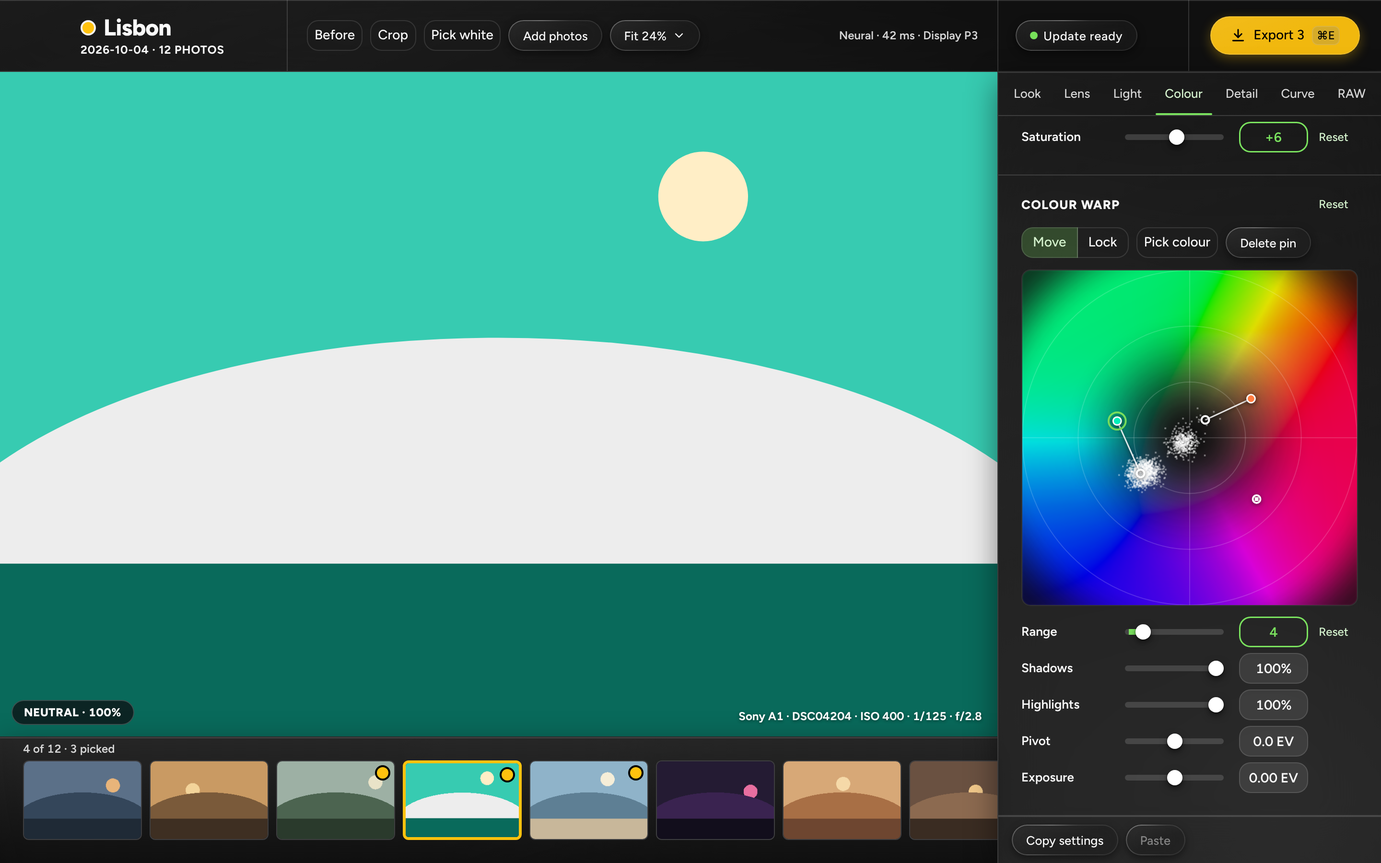
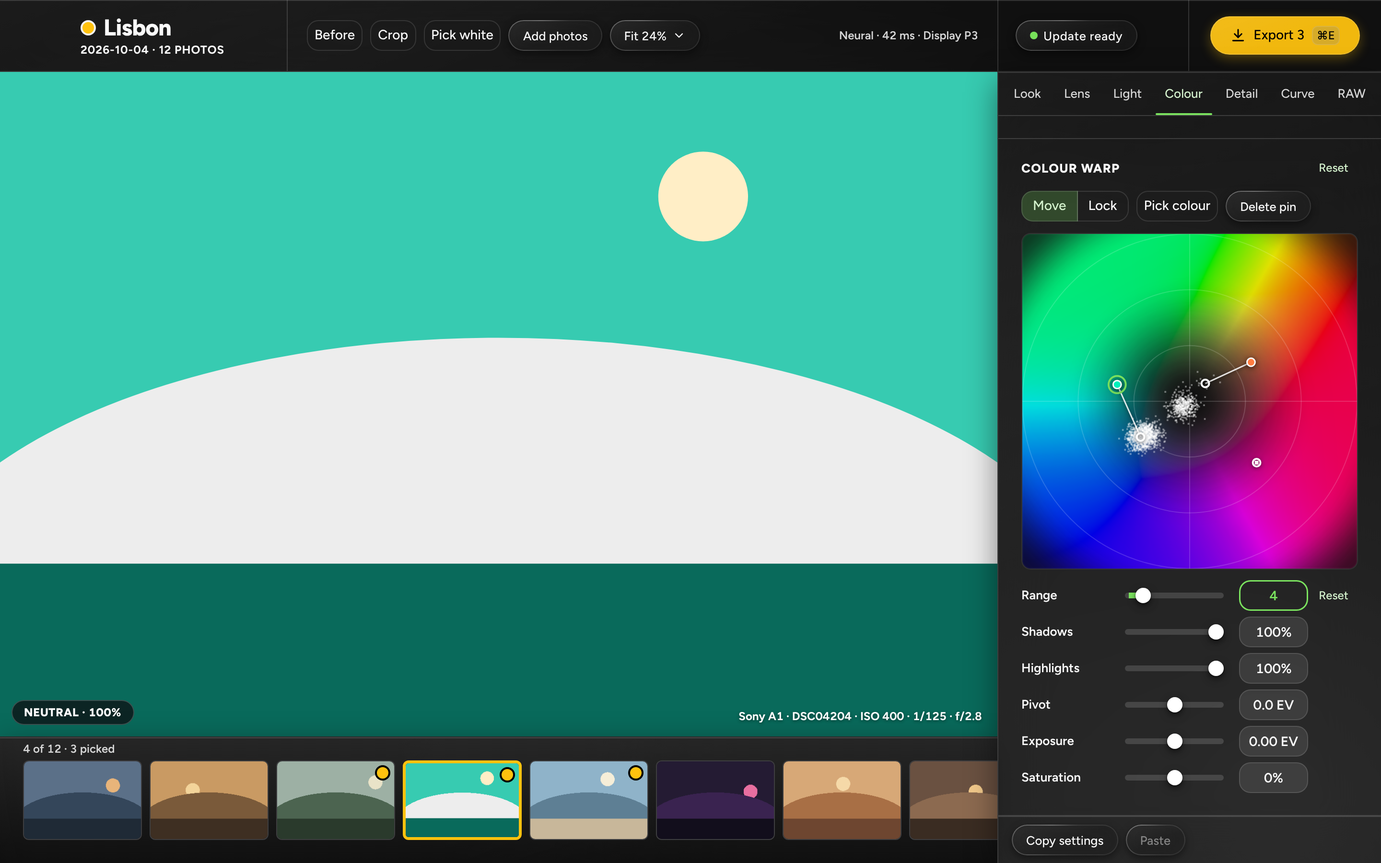
WIP: colour warp saturation in progress (snapshot) [skip ci]
Claude-Session: https://claude.ai/code/session_015yVsquBXWFc8zJt2CLktQS

diff --git a/crates/ym-gpu/tests/gpu_color.rs b/crates/ym-gpu/tests/gpu_color.rs
@@ -125,9 +125,10 @@ fn every_stage_matches_the_cpu_trace() {
             // would be compared where it is the identity. The four `warp/` cases (the flow's 12
             // steps), measured on Mesa lavapipe in all three storage modes (with the contrast and
             // saturation of 2026-10-19, the contrast's colour step and the saturation boost 1.5
-            // included): C9b 4.2e-7, C10 4.5e-7, C11 4.9e-7 (gate 2e-4), C13 at most 4.2e-5 (gate one
-            // 10-bit code). The `contrast/` and `saturation/` cases (alone and on the full chain, -100
-            // to 100) are in the per-stage line printed below: C9 8.4e-7 on every chain.
+            // included, and the pins' saturation of 2026-11-01): C9b 5.1e-7, C10 5.2e-7, C11 5.3e-7
+            // (gate 2e-4), C13 at most 1.1e-6 (gate one 10-bit code). The `contrast/` and
+            // `saturation/` cases (alone and on the full chain, -100 to 100) are in the per-stage
+            // line printed below: C9 8.8e-7 on every chain.
             let warped = traces
                 .iter()
                 .filter(|t| {
@@ -233,9 +234,11 @@ fn every_stage_matches_the_cpu_trace() {
 /// the warp existed), for all four outputs, checked at C9, C9b, C10, C11 and C13.
 ///
 /// Measured on Mesa lavapipe, the same in all three storage modes (with the contrast and saturation of
-/// 2026-10-19, the contrast's colour step and the saturation boost 1.5 included): C9 4.3e-7, C9b
-/// 6.6e-7, C10 6.4e-7, C11 6.2e-7 against the 2e-4 gate, C13 2.0e-5 against one 10-bit code
-/// (9.8e-4); 57 of the 60 sets have a warp that acts, and 29 % of all pixels move by more than 1e-3.
+/// 2026-10-19, the contrast's colour step and the saturation boost 1.5 included, and about half the
+/// moving pins with a saturation of their own, 2026-11-01): C9 4.5e-7, C9b 9.1e-7, C10 8.2e-7, C11
+/// 8.3e-7 against the 2e-4 gate, C13 2.4e-5 against one 10-bit code (9.8e-4); 57 of the 60 sets have a
+/// warp that acts, and 31 % of all pixels move by more than 1e-3. With the kernel's saturation step
+/// off the same test fails (C9b 6.6e-2).
 #[test]
 fn random_parameter_sets_match_the_cpu_trace() {
     use std::sync::Arc;
@@ -507,8 +510,9 @@ fn a_warp_that_moves_nothing_leaves_every_output_bit_identical() {
 /// its own.
 ///
 /// Measured on Mesa lavapipe, the same in all three storage modes (with the contrast and saturation of
-/// 2026-10-19, the contrast's colour step and the saturation boost 1.5 included): C9b 9.1e-7, C10
-/// 8.7e-7, C11 8.2e-7 (gate 2e-4), C13 4.4e-6 (gate one 10-bit code, 9.8e-4).
+/// 2026-10-19, the contrast's colour step and the saturation boost 1.5 included, and saturations of
+/// -80 %, 0 and +80 % on the moving pins in turn): C9b 8.6e-7, C10 9.7e-7, C11 1.1e-6 (gate 2e-4), C13
+/// 4.2e-6 (gate one 10-bit code, 9.8e-4); the least a pin moved its own pixel: 1.2e-2.
 #[test]
 fn the_most_pins_the_uniform_holds_match_the_cpu() {
     use ym_color::warp::{WARP_MAX_PINS, WarpParams, WarpPin, chroma_of};
@@ -625,7 +629,7 @@ fn the_most_pins_the_uniform_holds_match_the_cpu() {
                     );
                 } else {
                     // Overlapping pins share: the least moved is a short move whose neighbours
-                    // dilute it (6.1e-3 on Mesa lavapipe); a pin read from the wrong row would
+                    // dilute it (1.2e-2 with the saturations on Mesa lavapipe); a pin read from the wrong row would
                     // leave its pixel where it was.
                     assert!(
                         shift > 1e-3,

diff --git a/crates/ym-core/tests/settings.rs b/crates/ym-core/tests/settings.rs
@@ -1980,7 +1980,14 @@ fn the_warp_keeps_16_pins_and_clamps_each_like_the_stage_does() {
     assert!(a.source[0].hypot(a.source[1]) <= 0.5);
     assert!((a.target[1] - 0.5).abs() < 1e-12 && a.target[0] == 0.0);
     assert_eq!(
-        (a.range, a.shadows, a.highlights, a.pivot_ev, a.exposure_ev, a.saturation),
+        (
+            a.range,
+            a.shadows,
+            a.highlights,
+            a.pivot_ev,
+            a.exposure_ev,
+            a.saturation
+        ),
         (0.25, 0.0, 1.0, -6.0, 2.0, -1.0)
     );
     assert_eq!(
@@ -2002,8 +2009,22 @@ fn the_warp_keeps_16_pins_and_clamps_each_like_the_stage_does() {
         let c = WarpPin::from(*p).clamped();
         assert_eq!(c.locked, p.locked);
         assert_eq!(
-            (c.range, c.shadows, c.highlights, c.pivot_ev, c.exposure_ev, c.saturation),
-            (p.range, p.shadows, p.highlights, p.pivot_ev, p.exposure_ev, p.saturation)
+            (
+                c.range,
+                c.shadows,
+                c.highlights,
+                c.pivot_ev,
+                c.exposure_ev,
+                c.saturation
+            ),
+            (
+                p.range,
+                p.shadows,
+                p.highlights,
+                p.pivot_ev,
+                p.exposure_ev,
+                p.saturation
+            )
         );
         for (x, y) in c
             .source

diff --git a/crates/ym-color/src/warp.rs b/crates/ym-color/src/warp.rs
@@ -455,7 +455,7 @@ impl Warp {
         let e = gamma / reach.max(1.0) * exposure;
         // |K| <= 1 already (the weights are in [0, 1], gamma too, and every pin's saturation is in
         // [-1, 1]); the clamp keeps 1 + K >= 0 whatever else.
-        let k = (gamma / reach.max(1.0) * saturation).max(-1.0);
+        let sat_k = (gamma / reach.max(1.0) * saturation).max(-1.0);
         // The flow: each pin's centre slides from its source by the pixel's share of its move,
         // `s + tau gamma w delta`, and the pixel follows in N steps (so a pixel on a source lands on
         // `s + gamma w delta`, as in one step). The move is gathered in `d`, so one step is the
@@ -484,8 +484,8 @@ impl Warp {
             d[1] += s * v1;
         }
         // Saturation scales the chroma the pixel ends on, `(1 + K) (c + D)`. K = 0 leaves D as it is.
-        if k != 0.0 {
-            d = [d[0] + k * (c[0] + d[0]), d[1] + k * (c[1] + d[1])];
+        if sat_k != 0.0 {
+            d = [d[0] + sat_k * (c[0] + d[0]), d[1] + sat_k * (c[1] + d[1])];
         }
         (d, e)
     }

diff --git a/crates/ym-cli/tests/parity.rs b/crates/ym-cli/tests/parity.rs
@@ -810,6 +810,13 @@ fn a_colour_warp_is_the_same_picture_through_the_app_and_the_binary() {
             &sb.root().join(format!("cli-{name}")),
         );
         assert_same_files(&from_app, &from_cli, &format!("colour warp, {name}"));
+        // The pins, saturation included, are in the file's `ym:Settings`, as every setting is.
+        if name == "jpeg" {
+            let xmp = String::from_utf8_lossy(&bytes(&from_app[0])).replace("&quot;", "\"");
+            for saturation in ["\"saturation\":-0.6", "\"saturation\":0.5"] {
+                assert!(xmp.contains(saturation), "ym:Settings holds {saturation}");
+            }
+        }
     }
 }
 

diff --git a/docs/02-colour-pipeline.md b/docs/02-colour-pipeline.md
@@ -505,7 +505,7 @@ A chroma warp in the manner of DaVinci Resolve's Color Warper, on the Colour tab
 
 **The chroma plane.** For a LogC4 pixel `v`, its chroma is `c = (e1·v, e2·v)` with the colour-balance axes of C9 (`e1 = (1, −½, −½)/√1.5`, red against cyan; `e2 = (0, 1, −1)/√2`, green against blue), and its tone is `L = encode(Y(decode(v)))`, the LogC4 code of its linear luminance (as C11's luma curve). Moving `c` by `d` adds `d1·e1 + d2·e2` to `v`, which leaves the mean of the three channels, and so the pixel's brightness along the neutral axis, unchanged. Pure red sits at 0°, green near 120° and blue near 240° (counter-clockwise from `+e1`). The UI draws the plane out to `|c| = 0.30` (`WARP_PLANE_EXTENT`), which holds the colours of ordinary photos: a red of linear (0.18, 0.009, 0.009) in AWG4 reads `|c| = 0.13`.
 
-**A pin** has a source `s` and a target `t` (points of the plane), a range `ρ`, two tonal weights (Shadows `w_lo`, Highlights `w_hi`, 0…1), a pivot `p` in stops from grey, an exposure `x` in stops, and a lock flag. A locked pin's target is its source and it has no exposure or tonal weights.
+**A pin** has a source `s` and a target `t` (points of the plane), a range `ρ`, two tonal weights (Shadows `w_lo`, Highlights `w_hi`, 0…1), a pivot `p` in stops from grey, an exposure `x` in stops, a saturation `σ` (−1…+1; −1 turns the colours the pin reaches grey, +1 doubles their distance from neutral), and a lock flag. A locked pin's target is its source and it has no exposure, saturation or tonal weights.
 
 For a pixel of chroma `c₀` and tone `L` the warp is a flow, not one jump: in `N` small steps every moving pin's Gaussian slides from its source toward its target and the pixel follows it, so a pin reaches as far as its range however long its move.
 
@@ -523,7 +523,10 @@ c    = c₀, then for k = 0 … N − 1, τ = k / N:
   c    = c + (γ / N) · Σ (w_i φ_i δ_i) / max(1, Σ φ_i)   overlapping pins share, they do not add up
 D    = c − c₀                                      chroma displacement
 E    = γ · Σ (w_i G(|c₀ − s_i|², ρ_i) x_i) / max(1, Σ G(|c₀ − s_i|², ρ_i))   exposure in stops, in one step
-v'   = v + D1·e1 + D2·e2 + E · S                   S = one stop in LogC4 (0.06480)
+K    = γ · Σ (w_i G(|c₀ − s_i|², ρ_i) σ_i) / max(1, Σ G(|c₀ − s_i|², ρ_i))   saturation, in one step, the same weights
+c_f  = (1 + max(K, −1)) · (c₀ + D)                 the chroma the pixel ends on; 1 + K ≥ 0
+D'   = c_f − c₀ = D + K · (c₀ + D)                 chroma displacement with the saturation (D' = D where K = 0)
+v'   = v + D'1·e1 + D'2·e2 + E · S                 S = one stop in LogC4 (0.06480)
 ```
 
 - **Range is the range.** A pin's range is used as set: a colour three ranges beside or behind the source moves by at most `exp(−4.5)` of the move (exactly that for a move of one step).
@@ -531,15 +534,16 @@ v'   = v + D1·e1 + D2·e2 + E · S                   S = one stop in LogC4 (0.0
 - **No folding for one pin.** At one tone, away from neutral and locks (`γ = 1`), every pixel follows the same flow, that of one pin moving `w·δ`. Its field `w·δ·φ(c)` has the Lipschitz constant `w|δ| / (ρ√e)` (a Gaussian is steepest one range from its centre), an Euler step `c ↦ c + V(c)/N` is one to one with a positive Jacobian determinant when `Lip(V)/N < 1`, and a chain of one-to-one steps is one to one. The rule for `N` keeps `Lip(V)/N ≤ 0.8` for each pin. The cap of 64 never breaks that for one pin: sources and targets lie within 0.5 of neutral, so `|δ| ≤ 1`, and `ρ ≥ 0.01` give at most `1/(0.01√e) = 60.7`. It can bind for many long, narrow moves at once (their bounds add up), and then the plane can fold; so can locks and the neutral guard (`γ` changes across the plane) in odd arrangements. The plane shows where every pin's colour lands.
 - **What a long, narrow move does to the colours on its way.** A one-to-one map that takes `s` to `t` must move what lies between them: the colours ahead of the source on the line of the move, within about a range of it, are pushed ahead of the moving centre and arrive packed just past the target, in their order; the colours just behind the source, in a sliver about `2ρ²/|δ|` long, are stretched along the path. Colours more than two ranges from the line barely move. The stretch is steep (up to about `|δ|² / (2ρ²)`, 5,000 for a move of 1 at range 0.01), so in that sliver the flow magnifies rounding (see the f32 numbers below).
 - **Steps.** Typical moves take few steps: a move of 0.1 at range 0.04 takes 2 (at the default range 0.02, 4), four such pins 8, a move of 0.2 at `ρ = 0.01` (Range 1) takes 16, and the longest move (1) at `ρ = 0.01` takes the cap (64). A move of up to 1.32 ranges takes one step, which is the one-step formula `D = γ·Σ(w φ δ)/n` with `φ` at the sources. The cost is `N` Gaussians a moving pin a pixel (an `exp` and about twenty other operations, the tonal weight recomputed each step) on top of the one-step exposure: 2 for one default pin and a short drag, 64 × 16 = 1024 at the extreme.
-- **Exactness.** No pins, or only locked pins, skip the stage (renders are byte-identical to a pipeline without it). A locked pin's colour does not move at all (`λ = 0` there), at every tone.
-- **Ranges.** At most 16 pins (`WARP_MAX_PINS`). Sources and targets are scaled back to `|c| ≤ 0.5`; `ρ` clamps to 0.01…0.25 (default 0.02, shown as 2 on the Range slider); the tonal weights to 0…1 (default 1); the pivot to −6…+6 stops (default 0); the exposure to −2…+2 stops (default 0). Defaults leave `w_i = 1`. The constants are `WARP_STEP_SAFETY` (1.25), `WARP_MAX_STEPS` (64) and `WARP_EXP_LIMIT` (80) in `ym_color::warp`, mirrored in `src/components/warpMath.ts` (a test reads the Rust file); the exponent limit applies on the CPU as in the kernel.
+- **Saturation** (the owner's request of 2026-11-01) is one step, like the exposure: the same weights `w_i G` at the pixel's original chroma `c₀`, with `σ_i` in place of `x_i`, and it scales the chroma the pixel ends on after the move, so the colour a pin moves to is then made more or less saturated. On a pin's source with its tonal weights at 1, Saturation +50 % ends 1.5 times as far from neutral (the same direction), +100 % twice as far, −100 % on neutral. It acts on the chroma plane, so the pixel's brightness along the neutral axis is unchanged; the neutral guard `g` and the locks `λ` act through `γ` as they do for the exposure (neutrals never move, a locked colour does not change); it follows the range and the Shadows and Highlights weights, and overlapping pins share it (`Σ w φ σ / max(1, Σ φ)`), they do not add it up: two pins at +50 % on one colour give +50 %, and a +100 % pin beside a −100 % pin on one colour cancel. `|K| ≤ 1` holds already (`w`, `γ` in [0, 1], `σ` in [−1, 1], and the division is by at least `Σ φ`); `K` is clamped at −1 all the same, so `1 + K ≥ 0` and the chroma is never turned through neutral to the other side. The flow's step count `N` does not change: a pin that only changes saturation has `δ = 0` and adds no step.
+- **Exactness.** No pins, only locked pins, or pins that move nothing and change neither exposure nor saturation skip the stage (renders are byte-identical to a pipeline without it). A pin that only changes saturation counts as active (`WarpPin::acts`, and so `is_identity` and the grade key), where a pin with saturation 0 and its target on its source is still a still pin. A pin with saturation 0 changes nothing: `K = 0` takes the old path (`D' = D`, bit for bit; a test keeps a copy of the displacement as it was before saturation and compares bits). A locked pin's colour does not move at all (`λ = 0` there), at every tone.
+- **Ranges.** At most 16 pins (`WARP_MAX_PINS`). Sources and targets are scaled back to `|c| ≤ 0.5`; `ρ` clamps to 0.01…0.25 (default 0.02, shown as 2 on the Range slider); the tonal weights to 0…1 (default 1); the pivot to −6…+6 stops (default 0); the exposure to −2…+2 stops (default 0); the saturation to −1…+1 (default 0; the UI shows −100…+100 %). Defaults leave `w_i = 1`. The constants are `WARP_STEP_SAFETY` (1.25), `WARP_MAX_STEPS` (64), `WARP_EXP_LIMIT` (80) and `WARP_SATURATION_LIMIT` (1) in `ym_color::warp`, mirrored in `src/components/warpMath.ts` (a test reads the Rust file); the exponent limit applies on the CPU as in the kernel.
 - **Where it runs.** After C9 and before C10, so a look and the curve act on the warped colours. It travels into the DNG with the rest of the LogC4 grade. Before leaves it out (Before is the camera default; its "after the grade" reading point is C9, before the warp).
 
 ### GPU kernel
 
 `ym_gpu::kernels::color` and `color.wgsl`, function `c9b_warp`, called between `c9_grade` and `c10_look` in `run_pixel`. The debug stop is `Stop::C9b` (code 10 of `mode.x`), read against `StageTrace::c9b_logc4`.
 
-- **Where the pins live.** In the one uniform block `ChainU` (`docs/17-gpu.md` K3 allows one), after the cine rendering's rows: `warp_n` (`x` the moving pins, `y` the locks, `z` the flow's steps), `warp_mv` (`array<vec4<f32>, 48>`, three rows a moving pin: `[s.x, s.y, δ.x, δ.y]`, `[1/(2ρ²), w_lo, w_hi, P]`, `[x, 0, 0, 0]`) and `warp_lk` (`array<vec4<f32>, 16>`, one row a lock: `[l.x, l.y, 1/(2ρ²), 0]`). The block is 1664 bytes.
+- **Where the pins live.** In the one uniform block `ChainU` (`docs/17-gpu.md` K3 allows one), after the cine rendering's rows: `warp_n` (`x` the moving pins, `y` the locks, `z` the flow's steps), `warp_mv` (`array<vec4<f32>, 48>`, three rows a moving pin: `[s.x, s.y, δ.x, δ.y]`, `[1/(2ρ²), w_lo, w_hi, P]`, `[x, σ, 0, 0]`) and `warp_lk` (`array<vec4<f32>, 16>`, one row a lock: `[l.x, l.y, 1/(2ρ²), 0]`). The saturation took a spare lane of the third row, so the pin is still three `vec4` rows (16-byte rows, no padding to reason about) and the block is still 1664 bytes. The kernel reads the exposure and the saturation in the loop that gathers `reach` (one pass over the pins, the weight `w·φ` computed once), takes `K = max(γ/max(reach, 1) · Σ w φ σ, −1)` and, when `K ≠ 0`, adds `K · (c + dd)` to the flow's move `dd` before the move is applied (`K = 0` leaves `dd` untouched, so a pin with saturation 0 renders the bits it rendered before).
 - **Preparation.** `ChainTables::prepare` packs what `ym_color::warp::Warp::new` prepares (clamping, the pivot code, the number of steps from the pins in f64; still pins and lock-only sets are left out), so nothing is computed twice and every pixel of a frame takes the same steps. The sizes (`WARP_MAX_PINS`, `WARP_MOVE_ROWS`, `WARP_LOCK_ROWS`, `WARP_MAX_STEPS`) and `WARP_NEUTRAL_GUARD`, `WARP_TONE_HALF_WIDTH`, `WARP_EXP_LIMIT` are generated into the WGSL from Rust (K7). The kernel takes the steps as `clamp(warp_n.z, 1, WARP_MAX_STEPS)`, so a stray uniform can neither divide by zero nor loop long.
 - **Why a uniform and not a storage buffer.** A pin moves on every frame of a drag, so a persistent table would be refilled as often as the uniform is written, and it would cost a binding (7 of 8), a cache key and an upload of its own. The extra 1 KB a dispatch is nothing next to a tile.
 - **Identity.** No moving pin gives `warp_n.x = 0` and the kernel returns `v` before anything else, so a chain without a warp renders the same bits as one without the stage (tested for no pins, locks only, still pins, and a moving pin past the sixteenth, on every output).
@@ -551,17 +555,17 @@ v'   = v + D1·e1 + D2·e2 + E · S                   S = one stop in LogC4 (0.0
 
 | Case | C9b | C10 | C11 | C13 |
 |---|---|---|---|---|
-| Three fixed warp chains (warp alone, after the full grade, before a display-baked look; 5 moving pins with split tonal weights, pivots, exposure, a move of 0.12 at range 0.01, 12 steps, plus a lock and a still pin) | 4.2e-7 | 4.5e-7 | 4.9e-7 | at most 4.2e-5 (gate one 10-bit code) |
-| 60 seeded random parameter sets with 0 to 18 random pins (about a third locked, controls drawn beyond their ranges) | 6.6e-7 | 6.4e-7 | 6.2e-7 | 2.0e-5 |
-| The most pins the uniform holds (16 moving; 1 moving and 15 locks; 8 and 8; 16 moving followed by ignored locks) | 9.1e-7 | 8.7e-7 | 8.2e-7 | 4.4e-6 |
+| Three fixed warp chains (warp alone, after the full grade, before a display-baked look; 5 moving pins with split tonal weights, pivots, exposure and saturation (+50 %, −70 %, +100 %, a saturation-only pin at −100 %), a move of 0.12 at range 0.01, 12 steps, plus a lock and a still pin) | 5.1e-7 | 5.2e-7 | 5.3e-7 | at most 1.1e-6 (gate one 10-bit code) |
+| 60 seeded random parameter sets with 0 to 18 random pins (about a third locked, controls drawn beyond their ranges, about half the moving pins with a saturation up to ±1.2) | 9.1e-7 | 8.2e-7 | 8.3e-7 | 2.4e-5 |
+| The most pins the uniform holds (16 moving, with saturations of −80 %, 0 and +80 % in turn; 1 moving and 15 locks; 8 and 8; 16 moving followed by ignored locks) | 8.6e-7 | 9.7e-7 | 1.1e-6 | 4.2e-6 |
 
-The gate is 2e-4 for C9b to C11. In the last case every moving pin moves its own pixel (the least by 6.1e-3: overlapping pins share) and every lock holds its own. The long-move test (`a_long_narrow_move_matches_the_cpu_where_the_flow_stretches`: a cloud of 12,288 pixels about 1e-3 across around one colour, moved 0.48 across neutral at range 0.01, 37 steps, 34 % of the pixels stretched) gives C9b 7.2e-5. The same cloud moved 0.68 gives 9.3e-5 and moved 0.87 gives 2.0e-4, at the gate: **the gate holds for moves up to about 0.85 at range 0.01 and fails beyond** (the difference is about 0.003 of a stop, in colours the warp stretches across the whole path).
+The gate is 2e-4 for C9b to C11. In the last case every moving pin moves its own pixel (the least by 1.2e-2: overlapping pins share) and every lock holds its own. With the kernel's saturation step switched off, four of the GPU tests fail (the fixed chains by 3.9e-2 at C9b, the random sets by 6.6e-2, the most-pins test, and the control that a saturation-only pin changes C9b and what follows), so the cases do exercise it. The long-move test (`a_long_narrow_move_matches_the_cpu_where_the_flow_stretches`: a cloud of 12,288 pixels about 1e-3 across around one colour, moved 0.48 across neutral at range 0.01, 37 steps, 34 % of the pixels stretched) gives C9b 7.2e-5. The same cloud moved 0.68 gives 9.3e-5 and moved 0.87 gives 2.0e-4, at the gate: **the gate holds for moves up to about 0.85 at range 0.01 and fails beyond** (the difference is about 0.003 of a stop, in colours the warp stretches across the whole path).
 
 The export tail runs the same kernel through `PreparedChain` (`tests/gpu_tail.rs`): a warped, shrunk and sharpened 8-bit export is at most 1 code from the CPU's, 0.9999 exact, and 56 % of its codes differ from the export without the warp.
 
 ### Tests (CPU reference, `ym_color::warp`)
 
-The tests check: the identity cases bit for bit; that a single pin's source lands on its target to 1e-12 for moves up to 1.0 at range 0.01 and through neutral; that Range limits the reach (a colour three ranges beside or behind the source moves by at most `exp(−4.5)` of the move, for moves of 0.1 to 0.46 at ranges 0.01, 0.04 and 0.12); that one pin never folds (5 extreme and 40 seeded random pins, `|δ|` up to 1, ranges 0.01 to 0.25, tonal weights 0.2 to 1: on a grid of a quarter range along and across the move, six ranges around it, every mapped cell keeps its orientation and the Jacobian determinant stays positive, the smallest 7.1e-5, while the same move in one step folds and the test sees it); that a partial weight or a lock's hold moves the source by that share of a long move; that a short move is the one-step formula bit for bit; and the step count, locks, neutrals, tonal weights, exposure, overlapping pins and clamping. `src/components/warpMath.test.ts` checks the TypeScript port the same way (the plane and the mock draw what the render does).
+The tests check: the identity cases bit for bit; that a single pin's source lands on its target to 1e-12 for moves up to 1.0 at range 0.01 and through neutral; that Range limits the reach (a colour three ranges beside or behind the source moves by at most `exp(−4.5)` of the move, for moves of 0.1 to 0.46 at ranges 0.01, 0.04 and 0.12); that one pin never folds (5 extreme and 40 seeded random pins, `|δ|` up to 1, ranges 0.01 to 0.25, tonal weights 0.2 to 1: on a grid of a quarter range along and across the move, six ranges around it, every mapped cell keeps its orientation and the Jacobian determinant stays positive, the smallest 7.1e-5, while the same move in one step folds and the test sees it); that a partial weight or a lock's hold moves the source by that share of a long move; that a short move is the one-step formula bit for bit; and the step count, locks, neutrals, tonal weights, exposure, overlapping pins and clamping; and for saturation: +50 % ends 1.5 times as far from neutral and −100 % on neutral on the source (also after a move, and with exposure), the neutrals and a locked colour, the range (a colour three ranges away gains at most `exp(−4.5)`), the tonal weights (Shadows 0 leaves the shadows, a weight of 0.4 gives 0.4 of the effect), overlapping pins sharing, `1 + K ≥ 0` for sixteen pins at −100 %, a saturation-only pin not skipped, the one-step formula with saturation bit for bit, and the displacement with saturation 0 equal bit for bit to a copy of the displacement as it was before saturation. `src/components/warpMath.test.ts` checks the TypeScript port the same way (the plane and the mock draw what the render does).
 
 ## C10 · Looks
 

diff --git a/docs/11-ui.md b/docs/11-ui.md
@@ -76,7 +76,7 @@ Grid: columns `minmax(0, 1fr) 400px`; rows `75px auto minmax(124px, 1fr)` (heade
 | Look | #FFC20E | **Automatic** (rows Exposure / White balance / Noise / Camera, each with its value, an AUTO or EDITED tag and an arrow to its tab; "Re-run"; while a provider grades (Apple Auto), a row between White balance and Noise for each value its answer set (Highlights, Shadows, Black, Contrast, Saturation, Shadows colour, Highlights colour), a line under the rows and the model's plan: `docs/19` and *Apple Auto* below) · **Look** (Intensity slider; Apply to: This photo / Picked · N / All · N; search; look grid; "Reset") · **Tone** (AUTO tag; Temperature, Contrast, Saturation; "Reset") |
 | Lens | #BD8CFF | **Lens** (the seven lenses as rows, each with its name and its line under it; the chosen one ringed) · **Amounts** (Flares, Edges, Anamorphic; "Reset": `docs/21` and *Lens card* below) |
 | Light | #2EC4F4 | **Exposure** (AUTO tag; Exposure, Contrast, Brightness) · **High dynamic range** (Highlights, Shadows, White, Black) |
-| Colour | #7BE35F | **White balance** (AUTO tag; light presets Auto · Day · Shade · Tung. · LED · Fluor.; Kelvin; Tint) · **Colour balance** (three wheels: Shadows, Midtones, Highlights; Saturation) · **Colour warp** (the chroma plane with its pins; the selected pin's Range, Shadows, Highlights, Pivot, Exposure) |
+| Colour | #7BE35F | **White balance** (AUTO tag; light presets Auto · Day · Shade · Tung. · LED · Fluor.; Kelvin; Tint) · **Colour balance** (three wheels: Shadows, Midtones, Highlights; Saturation) · **Colour warp** (the chroma plane with its pins; the selected pin's Range, Shadows, Highlights, Pivot, Exposure, Saturation) |
 | Detail | #F4B9AC | **Sharpening** (Amount, Radius, Output) · **Noise reduction** (AUTO tag; Luminance, Colour, Detail) |
 | Curve | #FF7340 | **Curve** (Luma · Red · Green · Blue; a 320 × 220 plot with the histogram; Input / Output readout) |
 | RAW | #5B9BFF | **Camera** (Detected; Profile with a STAND-IN tag when not exact; the explanation) · **Decode** (Neural demosaic, Highlight recovery, Lens corrections from camera, Chromatic aberration) · **Range** (Highlights, Low light, a note) |
@@ -223,8 +223,9 @@ The Colour tab's third card, under Colour balance: a chroma warp in the manner o
   | Highlights | 0–100 % | 100 % | 1 % | percent |
   | Pivot | −6…+6 stops | 0 | 0.1 stop | `+1.0 EV` |
   | Exposure | −2…+2 stops | 0 | 0.01 stop | `+0.30 EV` |
+  | Saturation | −100…+100 % (`saturation × 100`) | 0 % | 1 % | signed percent, `+20%` (`formats.signedPercent`) |
 
-  A locked pin shows Range only. With no pin selected the rows are replaced by one line: "Drag a colour to move it. Lock holds a colour in place."
+  Saturation makes the colours the pin reaches more or less saturated, the way Exposure makes them brighter or darker: −100 % turns them grey, +100 % puts them twice as far from neutral (`docs/02` C9b). It follows the pin's Range, Shadows and Highlights, and acts on the colour the pin's source lands on. The value box takes a typed number with or without a sign; the detent and Reset are at 0. The plane does not draw it (the target dot stays the hue of the target; a colour keeps its hue and only its distance from neutral changes). A locked pin shows Range only: it has no saturation, as it has no exposure. With no pin selected the rows are replaced by one line: "Drag a colour to move it. Lock holds a colour in place."
 
 **Pointer.**
 
@@ -239,13 +240,13 @@ The Colour tab's third card, under Colour balance: a chroma warp in the manner o
 
 **Accessible values.** `aria-valuenow` is the hue angle of the target (0–359). `aria-valuetext` is one of "moves red toward orange", "holds red" (a lock), "red, not moved", "moves red toward a stronger red" (or "a paler red") when the move stays in one hue, and "grey" within the neutral guard. A hue is named after the nearest of eight angles measured on the plane from pure LogC4 colours: red 0°, yellow 60°, green 120°, cyan 180°, blue 240°, magenta 300°, with orange (30°) and purple (270°) halfway.
 
-**Pick colour.** The toggle turns on the same crosshair layer as Pick white (the two are exclusive; Esc ends either). A click asks the core for the chroma of that pixel at the warp's input (`sample_chroma x, y`, CSS pixels from the photo cell's corner, as Pick white) and adds a moving pin there with its target on its source, selected, so the next drag on the plane moves it. The mode stays on until Esc, the toggle, Pick white (W), Crop or another photo, so several colours can be picked in a row. A click switches to the Colour tab (the mode may outlive it); a click on the letterbox does nothing. `store.pickColor` flushes the viewport input and the patches in flight, asks `sample_chroma` and adds the pin as one undo step.
+**Pick colour.** The toggle turns on the same crosshair layer as Pick white (the two are exclusive; Esc ends either). A click asks the core for the chroma of that pixel at the warp's input (`sample_chroma x, y`, CSS pixels from the photo cell's corner, as Pick white) and adds a moving pin there with its target on its source, selected, so the next drag on the plane moves it. The mode stays on until Esc, the toggle, Pick white (W), Crop or another photo, so several colours can be picked in a row. **It belongs to the Colour tab:** it turns off as soon as the Colour tab is not the one shown, whether another tab is chosen by a click or by ⌘1 to ⌘7, or the Export panel or Crop takes the tool panel's place, and when the photo changes, whichever way (the filmstrip, the arrows, Delete). The layer stops taking clicks and the cursor is the ordinary one in the same render that hides the tab, and coming back to Colour shows Pick colour off. Leaving the Photos screen (Start, the wizard) ends it with the screen. Pick white is not tied to a tab and keeps its rules. A click on the letterbox does nothing. `store.pickColor` flushes the viewport input and the patches in flight, asks `sample_chroma` and adds the pin as one undo step.
 
 **Hue field.** The grey is LogC4 0.45; the colour is taken to Display P3 and rendered keeping its hue (a colour outside P3 is pulled toward its own luminance, at least 8 % of its largest channel, then the channels are scaled by `1 / (0.6 + max)`), so it rolls off instead of clipping into flat bands. It shows at `0.92 · smoothstep(0, 0.225, |c|)`, fading by 80 % between 0.30 and 0.42. It is drawn once per size (128–384 px, scaled up by the browser) on a Display P3 canvas, sRGB where there is none. The scatter is 1.8 px dots of white at 42 %.
 
 **Copy, paste, undo.** The pins are one setting, `color_warp`, so Copy settings and Paste move them with the rest of the grade, and each finished change is one undo step. They are per photo and in memory only, like every setting.
 
-**Code.** `ColorWarpCard` (`src/screens/tools/ColorWarpCard.tsx`) is the third card of `ColorTab`. The plane is `WarpPlane` (`src/components/WarpPlane.tsx`; props `pins`, `onChange(pins, final)`, `selected`, `onSelect(index | null)`, `tool` `"move" | "lock"`, `scatter`), drawn from `src/components/warpMath.ts`, a TypeScript port of `crates/ym-color/src/warp.rs` (`warpMath.node.test.ts` checks the constants against the Rust file). The Pick colour toggle is our `Button` with `pressed` (glasscn's `Toggle`). The selected pin is window state in the store (`warpPin`, `selectWarpPin`; none on another photo, an index past the end counts as none). The scatter is `chroma_scatter`, asked for while the card is mounted and again after frames at most every 200 ms, as the histogram is (`watchChromaScatter`). Pick white and Pick colour share one layer, `PickLayer` (`src/screens/PickLayer.tsx`, class `.ym-pick-layer`), and the Photos screen keeps which of the two is on. The mock's `src/fixtures/warp.ts` takes a flat sRGB colour to an approximate LogC4 pixel (sRGB to Display P3 to linear AWG4, read as scene-linear, chroma × 3 so a muted mockup colour sits where a camera's would) and back, and the mock's picture runs the TypeScript warp after the light changes and before the look (`adjustScene`), so a pin visibly moves a colour; its scatter is a seeded grid of 1536 points and `sample_chroma` returns the colour under the click at the warp's input. Tests: `src/screens/ColorWarpCard.test.tsx`, `src/components/WarpPlane.test.tsx`, `src/state/store.warp.test.ts`, `src/api.mock.warp.test.ts`, `e2e/colour-warp.spec.ts`.
+**Code.** `ColorWarpCard` (`src/screens/tools/ColorWarpCard.tsx`) is the third card of `ColorTab`. The plane is `WarpPlane` (`src/components/WarpPlane.tsx`; props `pins`, `onChange(pins, final)`, `selected`, `onSelect(index | null)`, `tool` `"move" | "lock"`, `scatter`), drawn from `src/components/warpMath.ts`, a TypeScript port of `crates/ym-color/src/warp.rs` (`warpMath.node.test.ts` checks the constants against the Rust file). The Pick colour toggle is our `Button` with `pressed` (glasscn's `Toggle`). The selected pin is window state in the store (`warpPin`, `selectWarpPin`; none on another photo, an index past the end counts as none). The scatter is `chroma_scatter`, asked for while the card is mounted and again after frames at most every 200 ms, as the histogram is (`watchChromaScatter`). Pick white and Pick colour share one layer, `PickLayer` (`src/screens/PickLayer.tsx`, class `.ym-pick-layer`), and the Photos screen keeps which of the two is on (Pick colour is read as on only while the Colour tab is the one shown, `colourShown` in `Photos.tsx`, and a change of photo clears it). The mock's `src/fixtures/warp.ts` takes a flat sRGB colour to an approximate LogC4 pixel (sRGB to Display P3 to linear AWG4, read as scene-linear, chroma × 3 so a muted mockup colour sits where a camera's would) and back, and the mock's picture runs the TypeScript warp after the light changes and before the look (`adjustScene`), so a pin visibly moves a colour; its scatter is a seeded grid of 1536 points and `sample_chroma` returns the colour under the click at the warp's input. Tests: `src/screens/ColorWarpCard.test.tsx`, `src/components/WarpPlane.test.tsx`, `src/state/store.warp.test.ts`, `src/api.mock.warp.test.ts`, `e2e/colour-warp.spec.ts`.
 
 ### Removing photos
 

diff --git a/CHANGELOG.md b/CHANGELOG.md
@@ -9,7 +9,13 @@ moves the entries below from Unreleased into a dated section for that version.
 
 ## [Unreleased]
 
+### Added
+
+- **A Saturation slider for each pin in Colour warp.** A pin now has a Saturation slider after Exposure, from −100 %, which turns the colours it reaches grey, to +100 %, which puts them twice as far from grey; 0 % changes nothing. It follows the pin's Range, Shadows and Highlights like the rest of the pin, never touches greys, and two pins on one colour share the effect rather than add it up. A locked pin has no Saturation. Photos and copied settings made before this open as they were, and a picture whose pins have Saturation at 0 comes out exactly as before (the pipeline version stays 0.8.2). In a `ym render --settings` file a pin takes `saturation` from −1 to 1 (`docs/02`, `docs/11`).
+
 ### Changed
+
+- **Pick colour turns off when you switch to another tab.** Pick colour now ends as soon as the Colour tab is no longer the one you see, whether you click another tab or press ⌘1 to ⌘7, and also when you open Export, change photo or leave the photos. The photo takes clicks as usual straight away, and Colour shows Pick colour off when you come back. Pick white is unchanged.
 
 - **Edges follows the aperture and no longer turns bright detail into white blobs.** A photo full of small bright things, such as a cherry tree in bloom, came out of the Lens tab with its blossoms turned into flat white blobs: every small clipped patch was treated as a lone light and given a glow of its own, and in a crowd those glows filled the gaps. Now only a light that stands alone (a star, a lamp, the sun) gets that extra light; a crowd of bright patches is treated as a surface. Edges also follows the aperture the photo was taken at: a photo taken at f/8 stays nearly sharp, a photo taken wide open keeps the full look of the lens, and a photo with no aperture recorded is treated as wide open. Pictures with the Lens off are unchanged. A picture made with Edges or Anamorphic above 0 changes when its photo was taken stopped down or holds many small bright areas, and the pipeline version is 0.8.2.
 

diff --git a/docs/10-cli.md b/docs/10-cli.md
@@ -43,7 +43,7 @@ The options mirror the app's controls and are grouped as in `ym render --help`. 
 |---|---|---|
 | `--look <look>` | full id (`builtin:neutral`), its slug after the colon (`neutral`), or the display name, case-insensitive | ambiguous: exit 2 listing the matches; missing: exit 3 |
 | `--intensity <0–100>` | percent | default 100 |
-| `--settings <file or ->` | JSON with the `ym:Settings` schema (the resolved `DevelopSettings`, `docs/01-architecture.md`) | covers everything the flags can't: colour balance (`{ "kind": "auto" }` puts a shadows or highlights wheel back to Auto), colour warp, curve, crop, orientation, white pick. Flags given alongside it override it. A file with several photos' settings is an object keyed by file name |
+| `--settings <file or ->` | JSON with the `ym:Settings` schema (the resolved `DevelopSettings`, `docs/01-architecture.md`) | covers everything the flags can't: colour balance (`{ "kind": "auto" }` puts a shadows or highlights wheel back to Auto), colour warp (`{ "pins": [...] }`; a pin names its `source` and may leave out the rest: `target`, `locked`, `range`, `shadows`, `highlights`, `pivot_ev`, `exposure_ev` and `saturation`, −1 to 1, 0 by default; `docs/01`, `docs/02` C9b), curve, crop, orientation, white pick. Flags given alongside it override it. A file with several photos' settings is an object keyed by file name |
 | `--auto-crop[=<aspect>]` | `original` (the default), `free`, `1:1` or `square`, `4:5`, `16:9` | crops each photo as the Crop panel's Auto does (`docs/20-auto-crop.md` §8): the proposal's straighten angle and first frame for the aspect, at the photo's orientation, with `auto: true`; the whole photo at 0° is no crop. Replaces a crop from `--settings`. `--json` adds `auto_crop`, the proposal (below) |
 
 ### Light
